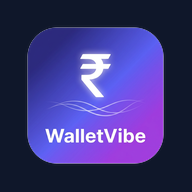
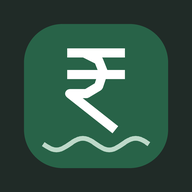
minor update

diff --git a/index.html b/index.html
@@ -4,7 +4,7 @@
     <meta charset="UTF-8" />
     <meta name="viewport" content="width=device-width, initial-scale=1.0" />
     <meta http-equiv="X-UA-Compatible" content="IE=edge" />
-    <meta name="theme-color" content="#312e81" />
+    <meta name="theme-color" content="#202b27" />
     <meta name="description" content="WalletVibe — Modern Personal Finance, Expenses Tracker & Bank History Manager with Offline First PWA and AI Statement Parsing" />
     <meta name="referrer" content="strict-origin-when-cross-origin" />
     <meta name="google-site-verification" content="c21FTmIfp6bUy9jr0i6V7vwmk1IAlmmDOJjUcBthLKM" />
@@ -35,26 +35,12 @@
   <body>
     <div id="root"></div>
     <div id="startup-loader" role="status" aria-label="Loading WalletVibe">
-      <div style="min-height: 100vh; min-height: 100dvh; display: flex; flex-direction: column; align-items: center; justify-content: center; background: #0f172a;">
-        <div style="position: relative; width: 72px; height: 72px; display: flex; align-items: center; justify-content: center;">
-          <div style="position: absolute; inset: 0; border: 3px solid rgba(99, 102, 241, 0.2); border-top-color: #6366f1; border-radius: 50%; animation: wv-spin 0.9s linear infinite;"></div>
-          <svg width="44" height="44" viewBox="0 0 40 40" fill="none" xmlns="http://www.w3.org/2000/svg">
-            <defs>
-              <linearGradient id="wv-init-grad" x1="0%" y1="0%" x2="100%" y2="100%">
-                <stop offset="0%" stop-color="#818cf8" />
-                <stop offset="50%" stop-color="#6366f1" />
-                <stop offset="100%" stop-color="#a855f7" />
-              </linearGradient>
-            </defs>
-            <rect x="2" y="4" width="36" height="32" rx="9" fill="url(#wv-init-grad)" />
-            <path d="M8 22 Q12 17 16 22 Q20 27 24 22 Q28 17 32 22" stroke="rgba(255,255,255,0.55)" stroke-width="1.8" stroke-linecap="round" fill="none" />
-            <path d="M8 26 Q12 21 16 26 Q20 31 24 26 Q28 21 32 26" stroke="rgba(255,255,255,0.25)" stroke-width="1.4" stroke-linecap="round" fill="none" />
-            <text x="20" y="18" text-anchor="middle" dominant-baseline="middle" font-size="13" font-weight="900" font-family="system-ui, -apple-system, sans-serif" fill="white">₹</text>
-          </svg>
-        </div>
+      <div style="position:fixed;inset:0;display:grid;place-items:center;background:#202b27;z-index:2147483646;">
+        <div aria-hidden="true" style="width:30px;height:30px;border:2px solid rgba(255,255,255,.18);border-top-color:#c2dfcd;border-radius:50%;animation:wv-spin .9s linear infinite;"></div>
       </div>
       <style>
         @keyframes wv-spin { 0% { transform: rotate(0deg); } 100% { transform: rotate(360deg); } }
+        @media (prefers-reduced-motion: reduce) { #startup-loader [aria-hidden] { animation: none !important; } }
       </style>
     </div>
     <script type="module" src="/src/main.jsx"></script>

diff --git a/src/App.jsx b/src/App.jsx
@@ -25,7 +25,6 @@ import ExpenseForm from './components/ExpenseForm'
 import LendingForm from './components/LendingForm'
 import TransactionList from './components/TransactionList'
 import TransactionModal from './components/TransactionModal'
-import WalletVibeLogo from './components/WalletVibeLogo'
 import CustomDialogModal, { showAlert } from './components/CustomDialogModal'
 import { registerDeviceSession, listenDeviceSession, clearDeviceSession } from './api/deviceSession'
 
@@ -44,39 +43,10 @@ const RatingModal = lazy(() => import('./components/RatingModal'))
 const AboutModal = lazy(() => import('./components/AboutModal'))
 
 function LazyLoader({ isView = false }) {
-  return (
-    <div style={{
-      display: 'flex',
-      flexDirection: 'column',
-      alignItems: 'center',
-      justifyContent: 'center',
-      padding: isView ? '60px 20px' : '40px 20px',
-      gap: '12px',
-      color: 'var(--text-muted, #64748b)',
-    }}>
-      <div style={{
-        position: 'relative',
-        width: '56px',
-        height: '56px',
-        display: 'flex',
-        alignItems: 'center',
-        justifyContent: 'center',
-      }}>
-        <div style={{
-          position: 'absolute',
-          inset: 0,
-          border: '2.5px solid rgba(99, 102, 241, 0.2)',
-          borderTopColor: '#6366f1',
-          borderRadius: '50%',
-          animation: 'spin 0.85s linear infinite',
-        }} />
-        <WalletVibeLogo size={34} variant="icon" animate={false} />
-      </div>
-      <span style={{ fontSize: '11px', fontWeight: 700, letterSpacing: '0.3px' }}>Loading view...</span>
-    </div>
-  )
+  return <div role="status" aria-label="Loading view" style={{ display: 'grid', placeItems: 'center', padding: isView ? '32px 20px' : '24px 20px' }}>
+    <span aria-hidden="true" className="view-loading-spinner" />
+  </div>
 }
-
 
 // Record when the app opened (for update banner age check)
 window.__wv_open_time = Date.now()

diff --git a/src/components/WalletVibeLogo.jsx b/src/components/WalletVibeLogo.jsx
@@ -18,9 +18,9 @@ export default function WalletVibeLogo({ size = 32, animate = false, variant = '
       >
         <defs>
           <linearGradient id={id} x1="0%" y1="0%" x2="100%" y2="100%">
-            <stop offset="0%" stopColor="#818cf8" />
-            <stop offset="50%" stopColor="#6366f1" />
-            <stop offset="100%" stopColor="#a855f7" />
+            <stop offset="0%" stopColor="#3e7d62" />
+            <stop offset="50%" stopColor="#286348" />
+            <stop offset="100%" stopColor="#1d503a" />
           </linearGradient>
           <linearGradient id={`${id}-shine`} x1="0%" y1="0%" x2="0%" y2="100%">
             <stop offset="0%" stopColor="rgba(255,255,255,0.35)" />

diff --git a/src/styles.css b/src/styles.css
@@ -3097,3 +3097,5 @@ select:has(option[value=""]:checked):not(:focus) {
   font-size: var(--placeholder-font-size) !important;
   font-weight: 400 !important;
 }
+
+.view-loading-spinner { display: block; width: 28px; height: 28px; border: 2px solid var(--border-color); border-top-color: var(--accent-500); border-radius: 50%; animation: spin .9s linear infinite; }

diff --git a/src/main.jsx b/src/main.jsx
@@ -12,7 +12,7 @@ if (import.meta.hot) import.meta.hot.dispose(stopViewportObserver)
 if ('serviceWorker' in navigator) {
   window.addEventListener('load', () => {
     navigator.serviceWorker
-      .register('/service-worker.js')
+      .register('/service-worker.js', { updateViaCache: 'none' })
       .catch(() => {})
   })
 }

diff --git a/public/service-worker.js b/public/service-worker.js
@@ -4,7 +4,7 @@
    - Posts SW_UPDATED message to all clients when a new SW activates
 */
 
-const CACHE_NAME = 'walletvibe-cache-v10'
+const CACHE_NAME = 'walletvibe-cache-v11'
 const VERSION_KEY = 'wv-deployed-version'
 
 // On install — cache shell assets

diff --git a/scripts/generate-brand-icons.py b/scripts/generate-brand-icons.py
@@ -1,0 +1,47 @@
+"""Render the code-defined green rupee/wave mark into web and Android assets.
+
+Run from the repository root with Python and Pillow. No source photos or old
+bitmap icons are modified: all exports are drawn from the geometry below.
+"""
+from pathlib import Path
+import math
+from PIL import Image, ImageDraw
+
+ROOT = Path(__file__).resolve().parents[1]
+BACKGROUND = '#202b27'
+GREEN = '#286348'
+SCALE = 40
+
+
+def mark(size, maskable=False):
+    canvas = Image.new('RGBA', (40 * SCALE, 40 * SCALE), BACKGROUND if maskable else (0, 0, 0, 0))
+    draw = ImageDraw.Draw(canvas)
+    def line(points, fill, width):
+        draw.line([(round(x * SCALE), round(y * SCALE)) for x, y in points], fill=fill, width=round(width * SCALE), joint='curve')
+    inset = 5 if maskable else 2
+    draw.rounded_rectangle((inset*SCALE, inset*SCALE, (40-inset)*SCALE, (40-inset)*SCALE), radius=8*SCALE, fill=GREEN)
+    # Rupee, built from strokes rather than depending on a platform font.
+    line([(14, 11), (26, 11)], 'white', 1.9)
+    line([(14, 15.5), (26, 15.5)], 'white', 1.9)
+    line([(17.5, 11), (20.5, 12.5), (21.5, 15), (20.5, 18), (18, 19.5), (14.5, 19.5), (24, 27)], 'white', 1.9)
+    wave = [(9 + i * .22, 30 + math.sin(i * math.pi / 25) * 1.2) for i in range(101)]
+    line(wave, '#bdd9c9', 1)
+    return canvas.resize((size, size), Image.Resampling.LANCZOS)
+
+
+def save(path, size, maskable=False):
+    target = ROOT / path
+    target.parent.mkdir(parents=True, exist_ok=True)
+    mark(size, maskable).save(target)
+
+
+for size in (192, 512):
+    save(f'public/icon-{size}.png', size)
+    save(f'public/icon-maskable-{size}.png', size, True)
+
+for density, launcher, maskable, splash in [('mdpi', 48, 82, 300), ('hdpi', 72, 123, 450), ('xhdpi', 96, 164, 600), ('xxhdpi', 144, 246, 900), ('xxxhdpi', 192, 328, 1200)]:
+    save(f'app/src/main/res/mipmap-{density}/ic_launcher.png', launcher)
+    save(f'app/src/main/res/mipmap-{density}/ic_maskable.png', maskable, True)
+    save(f'app/src/main/res/drawable-{density}/splash.png', splash)
+
+mark(256).save(ROOT / 'public/favicon.ico', sizes=[(16, 16), (32, 32), (48, 48)])

diff --git a/AUDIT.md b/AUDIT.md
@@ -57,3 +57,14 @@ Rule field restrictions follow Firebase's documented `diff().affectedKeys()` app
 - Fixed settings backup to export the current account’s scoped cached records. Clear cache now clears only that account’s snapshots and preserves preferences and pending offline writes. Backup is a cached-record export; it does not fetch uncached cloud records or include attachment bytes.
 
 Validation: production build and the existing 12 regression tests pass. Browser fixture checks cover 320px and 390px phone widths, successful category/person selection, report filtering (Fuel → one transaction / ₹3,300), tools-menu navigation, settings/import/reviews, and a 390×420 reduced-height viewport with the suggestion panel entirely within bounds. No real accounts, imports, reviews, payments, refreshes, or logout were submitted. A reduced-height desktop viewport does not reproduce an actual Android/iOS keyboard; verify keyboard resize/panning on physical devices before release.
+
+
+### Installed-phone startup follow-up — 15 October 2026
+
+The phone screenshots show the packaged/installed launch splash followed by the HTML auth-initialization loader. The earlier form palette changes had not covered the hardcoded HTML startup colors, web manifest, Android TWA colors, or packaged splash artwork.
+
+Changed the launch background/status/navigation colors to charcoal (#202b27), replaced the second branded splash with one 30px neutral spinner, and simplified lazy-view loading to a plain 28px spinner. Updated the web and Android icon/splash exports from reproducible code geometry (`scripts/generate-brand-icons.py`), and switched React/favicons to green. Removed the wrapper's extra 300ms splash fade. Android's own launch screen remains a distinct platform-controlled stage.
+
+Bumped service-worker cache to v11 and the deployed version marker; service-worker registration bypasses its HTTP cache, and Netlify entry/manifest/worker headers now request revalidation. These source changes have not been deployed during this task. Existing installed native artwork/colors require an updated Android package; clearing website cache alone cannot replace those packaged resources.
+
+Validation: production web build passes, all 15 regression tests pass, and diff whitespace check passes. Inspected the rendered 512px icon. Android debug build was attempted using the existing offline Gradle cache, then retried without custom daemon JVM arguments; both executions failed before Android compilation with `java.io.IOException: Unable to establish loopback connection`. No new APK/AAB was produced or installed, and physical-phone launch transitions remain unverified.
